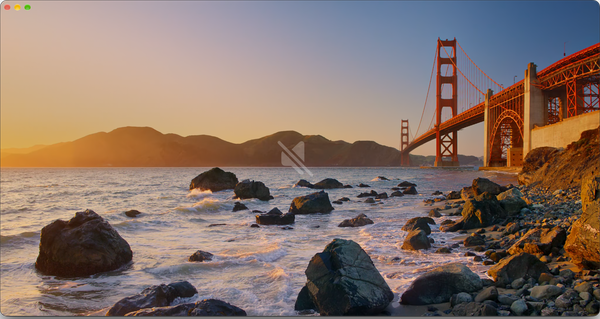
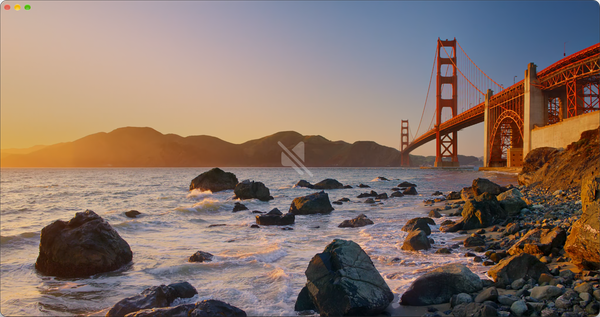
Drop the shadow strip from the crops, and size screens images at natural size
The alpha>128 crop kept the window's drop shadow (alpha ~134) as a
semi-transparent black band at the bottom. Re-crop at alpha>=240 from
the full-resolution originals; screens images are now width/height
auto as requested.

diff --git a/docs/index.html b/docs/index.html
@@ -290,8 +290,8 @@
       }
       .frame img {
         display: block;
-        height: 300px;
         width: auto;
+        height: auto;
       }
 
       /* features */
@@ -471,7 +471,7 @@ brew install --cask vidp"
             <img
               src="screenshots/playing.png"
               width="600"
-              height="319"
+              height="317"
               alt="Vidp playing a video, with the film title and a 30-second skip indicator above the transport controls, and a progress bar along the bottom"
             />
           </div>
@@ -565,7 +565,7 @@ brew install --cask vidp"
             <img
               src="screenshots/playing.png"
               width="600"
-              height="319"
+              height="317"
               loading="lazy"
               alt="A video playing, with the transport controls and the film title and year at the bottom left"
             />
@@ -574,7 +574,7 @@ brew install --cask vidp"
             <img
               src="screenshots/skip.png"
               width="600"
-              height="319"
+              height="317"
               loading="lazy"
               alt="A 30-second skip indicator above the play button after pressing shift and the right arrow"
             />
@@ -583,7 +583,7 @@ brew install --cask vidp"
             <img
               src="screenshots/skip10.png"
               width="600"
-              height="319"
+              height="317"
               loading="lazy"
               alt="A 10-second skip indicator over the video after pressing the right arrow"
             />
@@ -592,7 +592,7 @@ brew install --cask vidp"
             <img
               src="screenshots/volume.png"
               width="600"
-              height="319"
+              height="317"
               loading="lazy"
               alt="A speaker icon and 100% above the transport controls after pressing the up arrow"
             />
@@ -601,7 +601,7 @@ brew install --cask vidp"
             <img
               src="screenshots/mute.png"
               width="600"
-              height="319"
+              height="317"
               loading="lazy"
               alt="A crossed-out speaker icon over the video after muting the volume"
             />
@@ -610,7 +610,7 @@ brew install --cask vidp"
             <img
               src="screenshots/settings.png"
               width="600"
-              height="319"
+              height="317"
               loading="lazy"
               alt="The Settings sheet over the video, with On-Screen Display and Subtitles sections for font, style, size, colour, outline and shadow"
             />
